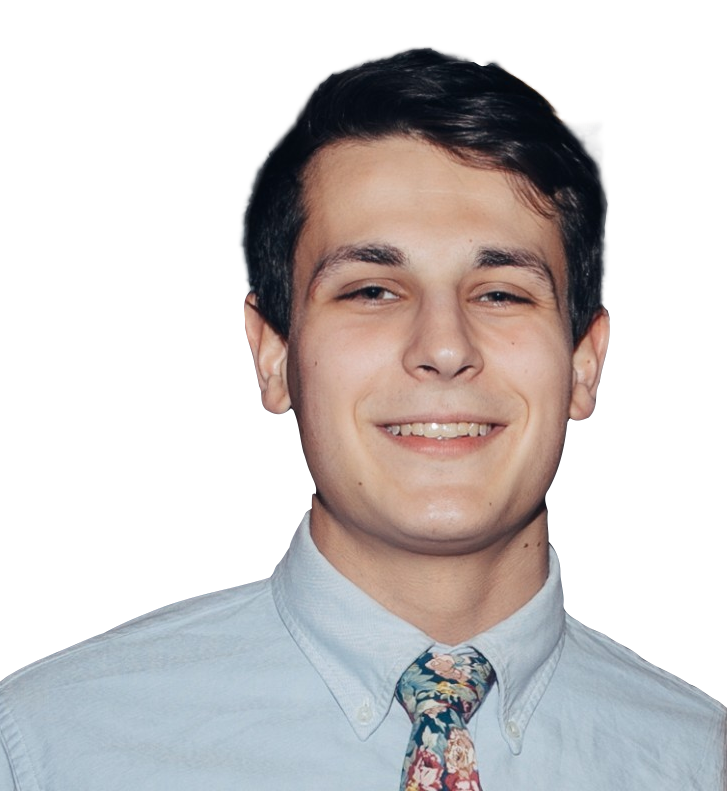
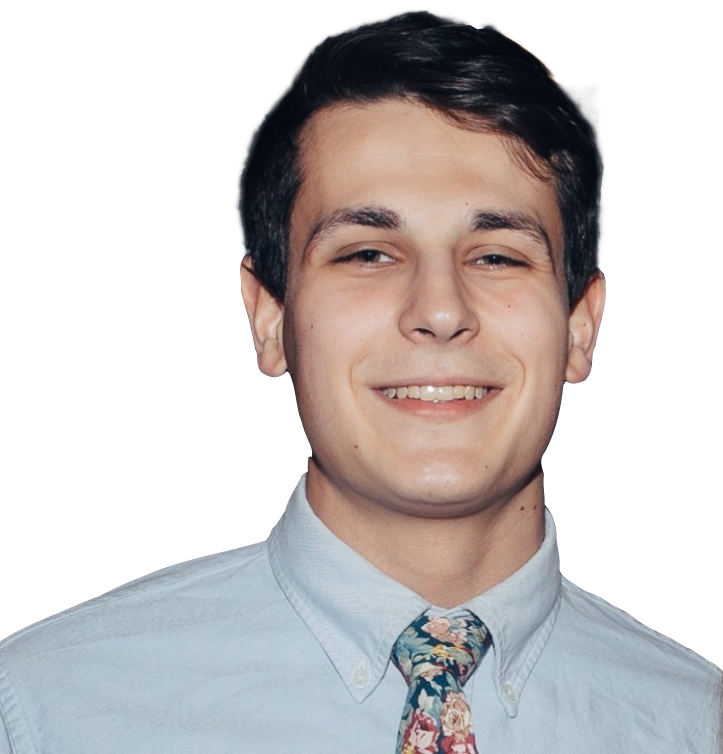
Minor Style Fixes

diff --git a/src/components/aboutme.js b/src/components/aboutme.js
@@ -10,6 +10,7 @@ class About extends Component {
                 <h1 style={{textAlign: 'center', color: `#f205b7`, paddingTop: `30px`}}>
                     Deployed Contracts
                 </h1>
+            <view style={{ flexDirection: 'row'}}>
             <table className="contracts-table">
             <tbody>
         <thead>
@@ -23,8 +24,8 @@ class About extends Component {
         </thead>
         
           <tr>
-            <td>OndoCoinlistDistributor</td>
-            <td>Token Distribution Thought <br></br> merkle root cryptography</td>
+            <td>Ondo Coinlist Distributor</td>
+            <td>Token Distribution thought Merkle Root cryptography</td>
             <td>10M$</td>
             <th>Ethereum Mainnet</th>
             <td>
@@ -39,8 +40,8 @@ class About extends Component {
             </td>
           </tr>
           <tr>
-            <td>ConvexAutocompounder</td>
-            <td>Auto Compounding Strategy for<br></br>3crv stable Pool</td>
+            <td>Convex Auto Compounder</td>
+            <td>Auto Compounding Strategy for 3crv stable Pool</td>
             <td>2K$</td>
             <th>Ethereum Mainnet</th>
             <td>
@@ -72,12 +73,7 @@ class About extends Component {
           </tr>
         </tbody>
             </table>
-            <br></br>
-            <br></br>
-            <br></br>
-            <br></br>
-            <br></br>
-            <br></br>
+            </view>
             </div>
         )
     }

diff --git a/src/components/landingpage.js b/src/components/landingpage.js
@@ -7,7 +7,7 @@ class Landing extends Component {
             <div style={{width: `100%`, margin: `auto`}}>
                 <Grid className="landing-grid">
                     <Cell col={12}>
-                        <img 
+                        <img
                         src="download.png"
                         alt="avatar"
                         className="avatar-img"
@@ -16,7 +16,7 @@ class Landing extends Component {
                             <h1>Solidity Developer</h1>
                         <hr/>
 
-                        <p> Solidity | React | node.js | TS </p>
+                        <p> JS | React | node.js | TS </p>
                     <div className="social-links">
                         {/* LinkedIn */}
                         <a href="https://www.linkedin.com/in/tac98/" rel="nooopener noreferrer" target="_blank">

diff --git a/src/App.css b/src/App.css
@@ -30,7 +30,7 @@
 }
 
 .avatar-img {
-    height:250px;
+    height:175px;
     padding-top: 5em;
     padding-left: auto;
     padding-right: auto;
@@ -138,6 +138,7 @@
     color: white;
     padding: 2em;
     border-radius: 1cm;
+    justify-content: center;
 }
 
 .contracts-page {
@@ -158,9 +159,10 @@
     margin-left: 5vw;
     margin-right: 5vw;
     border-spacing: 30px;
-    border-radius: 1cm;
-    display: flex;
+    border-radius: 1cm; 
+    display: flex; 
     overflow-x: scroll;
+    flex-direction: row;
 }
 
 table {
@@ -168,5 +170,5 @@ table {
   height: auto;
   width: auto;
   overflow: scroll;
-  justify-content: center;
+  justify-content: left;
 }

diff --git a/src/components/education.js b/src/components/education.js
@@ -6,7 +6,7 @@ class Education extends Component {
     render() {
         return(
             <Grid>
-                <Cell col={4}>
+                <Cell col={4} style={{margin:"auto"}}>
                     <p>{this.props.startYear} - {this.props.endYear}</p>
                 </Cell>
                 <Cell col={8}>
